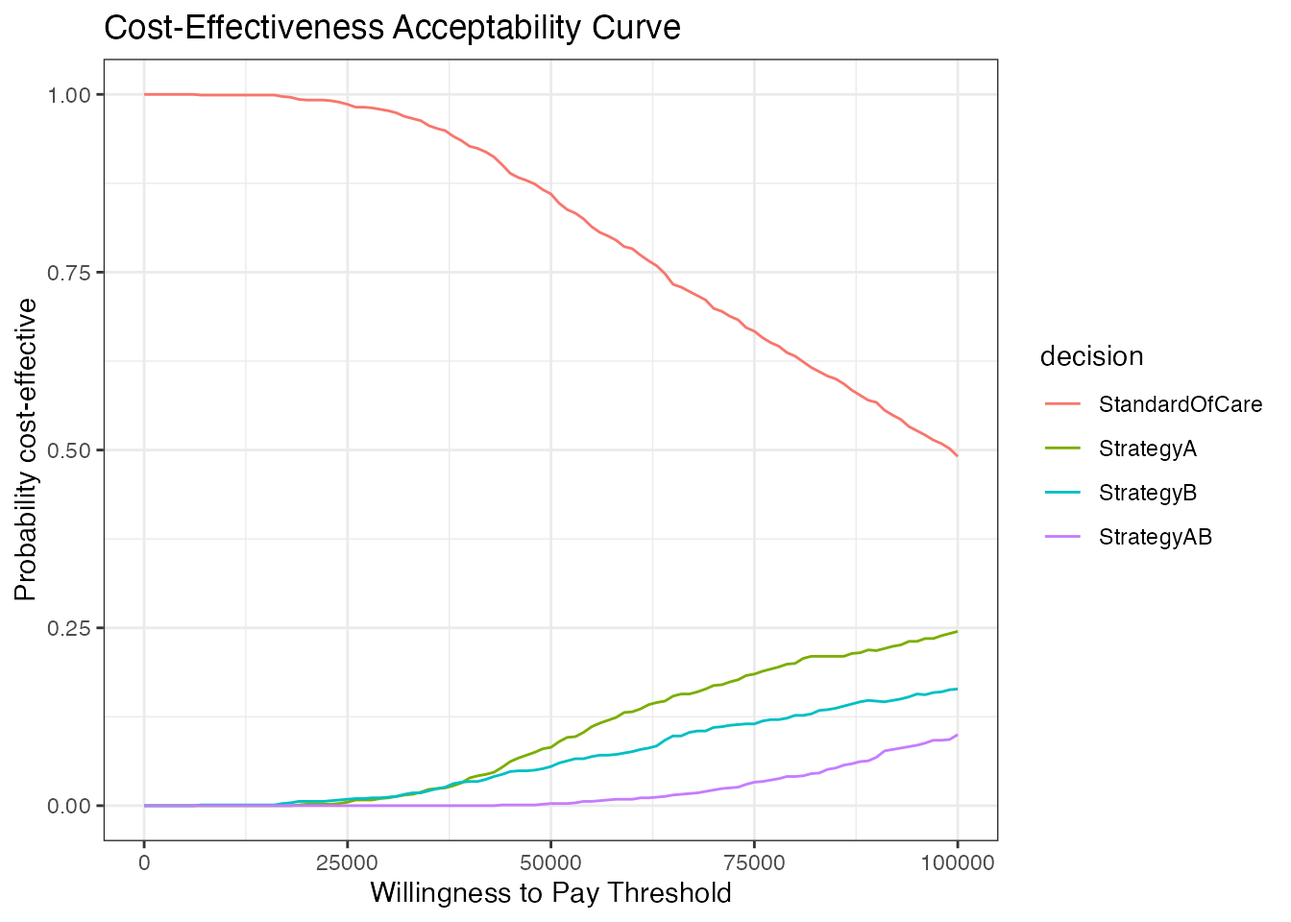
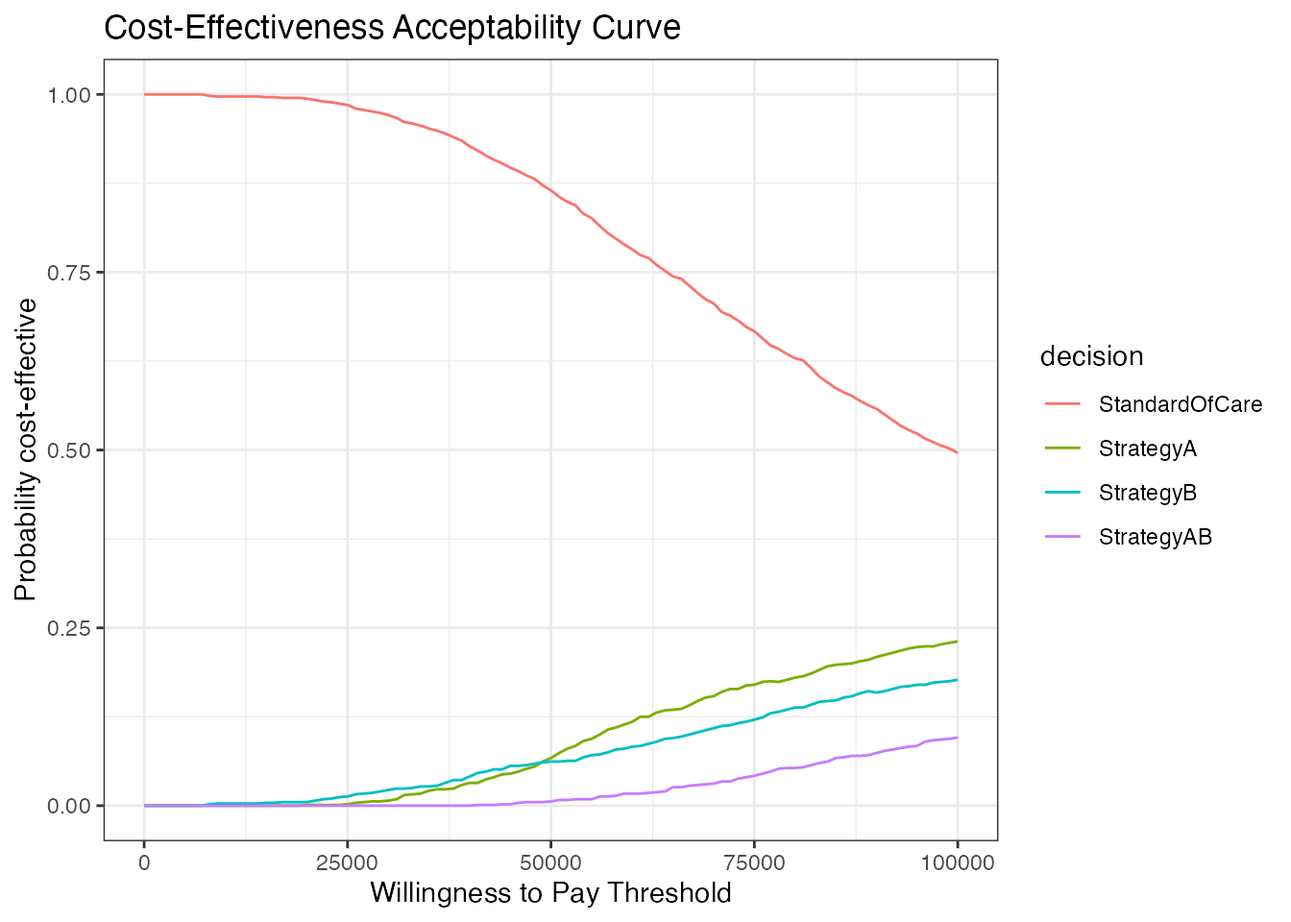
touching up the package

diff --git a/docs/reference/run_twig.html b/docs/reference/run_twig.html
@@ -125,58 +125,41 @@ In both situations, the total number of cycles will be the same as the input n_c
     <h2>Value</h2>
     
 
-<p>A list containing the results of the model run. The list includes the following elements:</p><ul><li><p>Rewards_summaryAn array containing the summary statistics of the rewards if params is a data.frame with more than 1 row.</p></li>
-<li><p>Rewards_simAn array containing the simulated rewards by simulation.</p></li>
-</ul><p>The following will be included if verbose is TRUE and the twig object is a Markov model:</p><ul><li><p>simThe simulation ID.</p></li>
-<li><p>Rewards_simA matrix of simulated rewards of size decision x rewards.</p></li>
-<li><p>Rewards_arrayAn array containing the rewards for each cycle, state, decision, and reward.</p></li>
-<li><p>Rewards_array_cycleAn array containing the rewards for each cycle, state, decision, and reward, adjusted for the cycle.</p></li>
-<li><p>Trace_arrayAn array containing the Markov trace for each cycle, state, and decision.</p></li>
-<li><p>TransitionProb_arrayAn array containing the transition probabilities for each state, destination state, cycle, and decision.</p></li>
-<li><p>PathsA data frame containing the path probabilities for each state, cycle, and decision.</p></li>
-<li><p>Event_optionsA data frame containing the event options for each state, cycle, and decision.</p></li>
-<li><p>Function_ValuesA data frame containing the evaluated function values for each state, cycle, decision, and event.</p></li>
-<li><p>evaluated_funsA list of evaluated functions. Each function returns a data frame enumerating the dependencies of the function along with the value returned by that function for each combination of values.</p></li>
-<li><p>path_eventsA data frame of the event options along each path. Rows = paths, columns = events.</p></li>
-</ul><p>The following will be included if verbose is TRUE and the twig object is a decision tree:</p><ul><li><p>simThe simulation ID.</p></li>
-<li><p>Rewards_simA matrix of simulated rewards of size decision x rewards.</p></li>
-<li><p>Path_rewardsAn array containing the path rewards of size decision x paths x rewards. Paths are indexed by their final outcomes in the twig and a key to event options is provided in path_events.</p></li>
-<li><p>Path_rewards_weightedAn array containing the path rewards weighted by the probability of each path. This is also of size decision x paths x rewards. Paths are indexed by their final outcomes in the twig and a key to event options is provided in path_events.</p></li>
-<li><p>PathsAn array containing the path probabilities of size decision x paths.</p></li>
-<li><p>OutcomesA matrix of final outcome probabilities. Final outcomes are the terminal event transitions of size decision x outcomes.</p></li>
-<li><p>Event_optionsA data frame containing the probability of event options by decision.</p></li>
-<li><p>path_eventsA data frame of the event options along each path. Rows = paths, columns = events.</p></li>
-<li><p>evaluated_funsA list of evaluated functions. Each function returns a data frame enumerating the dependencies of the function along with the value returned by that function for each combination of values.</p></li>
-<li><p>Prob_Function_ValuesA data frame of the probability function values evaluated by decision and events harmonized to the same combinations of decisions and events across all probability functions.</p></li>
+<p>A list containing the results of the model run. The list includes the following elements:</p><ul><li><p>Rewards_summary An array containing the summary statistics of the rewards if params is a data.frame with more than 1 row.</p></li>
+<li><p>Rewards_sim An array containing the simulated rewards by simulation.</p></li>
+</ul><p>The following will be included if verbose is TRUE and the twig object is a Markov model:</p><ul><li><p>sim The simulation ID.</p></li>
+<li><p>Rewards_sim A matrix of simulated rewards of size decision x rewards.</p></li>
+<li><p>Rewards_array An array containing the rewards for each cycle, state, decision, and reward.</p></li>
+<li><p>Rewards_array_cycle: An array containing the rewards for each cycle, state, decision, and reward, adjusted for the cycle.</p></li>
+<li><p>Trace_array: An array containing the Markov trace for each cycle, state, and decision.</p></li>
+<li><p>TransitionProb_array: An array containing the transition probabilities for each state, destination state, cycle, and decision.</p></li>
+<li><p>Paths: A data frame containing the path probabilities for each state, cycle, and decision.</p></li>
+<li><p>Event_options: A data frame containing the event options for each state, cycle, and decision.</p></li>
+<li><p>Function_Values: A data frame containing the evaluated function values for each state, cycle, decision, and event.</p></li>
+<li><p>evaluated_funs: A list of evaluated functions. Each function returns a data frame enumerating the dependencies of the function along with the value returned by that function for each combination of values.</p></li>
+<li><p>path_events: A data frame of the event options along each path. Rows = paths, columns = events.</p></li>
+</ul><p>The following will be included if verbose is TRUE and the twig object is a decision tree:</p><ul><li><p>sim: The simulation ID.</p></li>
+<li><p>Rewards_sim: A matrix of simulated rewards of size decision x rewards.</p></li>
+<li><p>path_events: A data frame of the event options along each path. Rows = paths, columns = events.</p></li>
+<li><p>Event_options: A data frame containing the probability of event options by decision.</p></li>
+<li><p>evaluated_funs: A list of evaluated functions. Each function returns a data frame enumerating the dependencies of the function along with the value returned by that function for each combination of values.</p></li>
+<li><p>Prob_Function_Values: A data frame of the probability function values evaluated by decision and events harmonized to the same combinations of decisions and events across all probability functions.</p></li>
+<li><p>Paths: An array containing the path probabilities of size decision x paths.</p></li>
+<li><p>Path_rewards: An array containing the path rewards of size decision x paths x rewards. Paths are indexed by their final outcomes in the twig and a key to event options is provided in path_events.</p></li>
+<li><p>Path_rewards_weighted: An array containing the path rewards weighted by the probability of each path. This is also of size decision x paths x rewards. Paths are indexed by their final outcomes in the twig and a key to event options is provided in path_events.</p></li>
+<li><p>Outcomes: A matrix of final outcome probabilities. Final outcomes are the terminal event transitions of size decision x outcomes.</p></li>
 </ul></div>
     <div id="see-also">
     <h2>See also</h2>
-    <div class="dont-index"><p><a href="../doc/markov_time_dep.html">Markov model vignette</a>, and
-<a href="../doc/decision_tree.html">Decision tree vignette</a></p></div>
+    <div class="dont-index"><p><a href="https://hjalal.github.io/twig/articles/markov_time_dep.html" class="external-link">Markov model vignette</a>, and
+<a href="https://hjalal.github.io/twig/articles/decision_tree.html" class="external-link">Decision tree vignette</a></p></div>
     </div>
 
     <div id="ref-examples">
     <h2>Examples</h2>
     <div class="sourceCode"><pre class="sourceCode r"><code><span class="r-in"><span><span class="kw">if</span> <span class="op">(</span><span class="cn">FALSE</span><span class="op">)</span> <span class="op">{</span></span></span>
-<span class="r-in"><span><span class="co"># Create a twig object</span></span></span>
-<span class="r-in"><span><span class="va">twig_obj</span> <span class="op">&lt;-</span> <span class="fu"><a href="twig.html">twig</a></span><span class="op">(</span><span class="op">)</span> <span class="op">+</span> </span></span>
-<span class="r-in"><span>  <span class="fu"><a href="decisions.html">decisions</a></span><span class="op">(</span><span class="st">"StandardOfCare"</span>, <span class="st">"StrategyA"</span><span class="op">)</span> <span class="op">+</span> </span></span>
-<span class="r-in"><span>  <span class="fu"><a href="states.html">states</a></span><span class="op">(</span>names <span class="op">=</span> <span class="fu"><a href="https://rdrr.io/r/base/c.html" class="external-link">c</a></span><span class="op">(</span><span class="st">"H"</span>, <span class="st">"S"</span>, <span class="st">"D"</span><span class="op">)</span>, init_probs <span class="op">=</span> <span class="fu"><a href="https://rdrr.io/r/base/c.html" class="external-link">c</a></span><span class="op">(</span><span class="fl">1</span>,<span class="fl">0</span>,<span class="fl">0</span><span class="op">)</span><span class="op">)</span> <span class="op">+</span> </span></span>
-<span class="r-in"><span>  <span class="fu"><a href="event.html">event</a></span><span class="op">(</span>name <span class="op">=</span> <span class="st">"only_event"</span>,  </span></span>
-<span class="r-in"><span>        options <span class="op">=</span> <span class="fu"><a href="https://rdrr.io/r/base/c.html" class="external-link">c</a></span><span class="op">(</span><span class="st">"get_sick"</span>, <span class="st">"die"</span>, <span class="st">"stay"</span><span class="op">)</span>, </span></span>
-<span class="r-in"><span>        probs <span class="op">=</span> <span class="fu"><a href="https://rdrr.io/r/base/c.html" class="external-link">c</a></span><span class="op">(</span><span class="fu">pGetSick</span><span class="op">(</span><span class="va">state</span><span class="op">)</span>, <span class="fu">pDie</span><span class="op">(</span><span class="va">decision</span>, <span class="va">state</span><span class="op">)</span>, <span class="cn">Inf</span><span class="op">)</span>, </span></span>
-<span class="r-in"><span>        transitions <span class="op">=</span> <span class="fu"><a href="https://rdrr.io/r/base/c.html" class="external-link">c</a></span><span class="op">(</span><span class="st">"S"</span>, <span class="st">"D"</span>, <span class="st">"stay"</span><span class="op">)</span><span class="op">)</span> <span class="op">+</span>  </span></span>
-<span class="r-in"><span>  <span class="fu"><a href="payoffs.html">payoffs</a></span><span class="op">(</span>cost <span class="op">=</span> <span class="fu">compute_cost</span><span class="op">(</span><span class="va">decision</span>, <span class="va">state</span><span class="op">)</span><span class="op">)</span></span></span>
-<span class="r-in"><span></span></span>
-<span class="r-in"><span><span class="co"># Define parameters</span></span></span>
-<span class="r-in"><span><span class="va">params</span> <span class="op">&lt;-</span> <span class="fu"><a href="https://rdrr.io/r/base/data.frame.html" class="external-link">data.frame</a></span><span class="op">(</span></span></span>
-<span class="r-in"><span>  pGetSick <span class="op">=</span> <span class="fl">0.1</span>,</span></span>
-<span class="r-in"><span>  pDie <span class="op">=</span> <span class="fl">0.05</span>,</span></span>
-<span class="r-in"><span>  compute_cost <span class="op">=</span> <span class="kw">function</span><span class="op">(</span><span class="va">decision</span>, <span class="va">state</span><span class="op">)</span> <span class="op">{</span> <span class="kw"><a href="https://rdrr.io/r/base/function.html" class="external-link">return</a></span><span class="op">(</span><span class="fl">100</span><span class="op">)</span> <span class="op">}</span></span></span>
-<span class="r-in"><span><span class="op">)</span></span></span>
-<span class="r-in"><span></span></span>
-<span class="r-in"><span><span class="co"># Run the twig model</span></span></span>
-<span class="r-in"><span><span class="va">results</span> <span class="op">&lt;-</span> <span class="fu">run_twig</span><span class="op">(</span><span class="va">twig_obj</span>, <span class="va">params</span>, n_cycles <span class="op">=</span> <span class="fl">10</span>, verbose <span class="op">=</span> <span class="cn">TRUE</span>, parallel <span class="op">=</span> <span class="cn">FALSE</span><span class="op">)</span></span></span>
+<span class="r-in"><span><span class="fu">run_twig</span><span class="op">(</span><span class="va">mytwig</span>, <span class="va">params</span>, n_cycles <span class="op">=</span> <span class="fl">10</span><span class="op">)</span></span></span>
+<span class="r-in"><span><span class="co"># see the vignettes for more examples</span></span></span>
 <span class="r-in"><span><span class="op">}</span></span></span>
 <span class="r-in"><span></span></span>
 </code></pre></div>

diff --git a/docs/articles/decision_tree.html b/docs/articles/decision_tree.html
@@ -134,9 +134,12 @@ outcomes.</p>
 <span>        transitions <span class="op">=</span> <span class="fu"><a href="https://rdrr.io/r/base/c.html" class="external-link">c</a></span><span class="op">(</span><span class="va">OVE_comp</span>, <span class="va">no_OVE_comp</span><span class="op">)</span><span class="op">)</span> <span class="op">+</span> </span>
 <span>  <span class="fu"><a href="../reference/payoffs.html">payoffs</a></span><span class="op">(</span>names <span class="op">=</span> <span class="fu"><a href="https://rdrr.io/r/base/c.html" class="external-link">c</a></span><span class="op">(</span><span class="va">cost</span>, <span class="va">utility</span><span class="op">)</span><span class="op">)</span> <span class="co"># finally measure the cost and utilities </span></span></code></pre></div>
 <p>In <a href="https://www.dashlab.ca/projects/decision_twig/" class="external-link">DecisionTwig</a>,
-this decision tree looks like this: <img src="../reference/figures/decision_tree_twig.png" width="700" alt="DecisionTree"> ## Model parameters Define a data frame for model
-parameters as a list of scalar values. This can also ve a dataset for
-running a probabilistic analysis.</p>
+this decision tree looks like this: <img src="../reference/figures/decision_tree_twig.png" width="700" alt="DecisionTree"></p>
+<div class="section level3">
+<h3 id="model-parameters">Model parameters<a class="anchor" aria-label="anchor" href="#model-parameters"></a>
+</h3>
+<p>Define a data frame for model parameters as a list of scalar values.
+This can also ve a dataset for running a probabilistic analysis.</p>
 <div class="sourceCode" id="cb3"><pre class="downlit sourceCode r">
 <code class="sourceCode R"><span><span class="va">params</span> <span class="op">&lt;-</span> <span class="fu"><a href="https://rdrr.io/r/base/list.html" class="external-link">list</a></span><span class="op">(</span></span>
 <span>  <span class="co"># Probabilities,</span></span>
@@ -159,6 +162,7 @@ running a probabilistic analysis.</p>
 <span>  q_loss_biopsy  <span class="op">=</span> <span class="fl">0.01</span>   ,<span class="co"># one-time QALY loss due to brain biopsy</span></span>
 <span>  q_death_biopsy <span class="op">=</span> <span class="fl">0</span>      <span class="co"># remaining QALYs for those who died during biopsy</span></span>
 <span><span class="op">)</span></span></code></pre></div>
+</div>
 <div class="section level3">
 <h3 id="functions">Functions<a class="anchor" aria-label="anchor" href="#functions"></a>
 </h3>
@@ -249,15 +253,15 @@ create a simple wrapper around the p_HVE variable.</p>
 <p>We can run the model and check the results of the single parameter
 set under <code>results$Rewards_sim</code></p>
 <div class="sourceCode" id="cb9"><pre class="downlit sourceCode r">
-<code class="sourceCode R"><span><span class="va">results</span> <span class="op">&lt;-</span> <span class="fu"><a href="../reference/run_twig.html">run_twig</a></span><span class="op">(</span>twig_obj <span class="op">=</span> <span class="va">mytwig</span>, params <span class="op">=</span> <span class="va">params</span>, parallel <span class="op">=</span> <span class="cn">FALSE</span><span class="op">)</span></span>
+<code class="sourceCode R"><span><span class="va">results</span> <span class="op">&lt;-</span> <span class="fu"><a href="../reference/run_twig.html">run_twig</a></span><span class="op">(</span>twig_obj <span class="op">=</span> <span class="va">mytwig</span>, params <span class="op">=</span> <span class="va">params</span>, parallel <span class="op">=</span> <span class="cn">FALSE</span>, progress_bar <span class="op">=</span> <span class="cn">FALSE</span><span class="op">)</span></span>
 <span><span class="co">#&gt; Checking Twig syntax ....</span></span>
 <span><span class="co">#&gt; A states layer was not detected. Event transitions include the following event names:  HVE_event, get_HVE_comp, get_OVE_comp . These are valid. </span></span>
 <span><span class="co">#&gt; The following transitions are not event names and will be treated as final outcomes:  Death, HVE_comp, no_HVE_comp, OVE_comp, no_OVE_comp .</span></span>
 <span><span class="co">#&gt; Twig syntax validation completed successfully.</span></span>
 <span><span class="co">#&gt; Preprocessing started ...</span></span>
 <span><span class="co">#&gt; Preprocessing completed. Starting simulation...</span></span>
-<span><span class="co">#&gt;   |                                                                                                                                                                                                      |                                                                                                                                                                                              |   0%  |                                                                                                                                                                                                      |==============================================================================================================================================================================================| 100%</span></span>
-<span><span class="co">#&gt; Total time: 0.00081 secs</span></span>
+<span><span class="co">#&gt; </span></span>
+<span><span class="co">#&gt; Total time: 0.00072 secs</span></span>
 <span></span>
 <span><span class="va">results</span><span class="op">$</span><span class="va">Rewards_sim</span></span>
 <span><span class="co">#&gt; , , sim = 1</span></span>

diff --git a/docs/reference/calculate_icers.html b/docs/reference/calculate_icers.html
@@ -89,27 +89,21 @@
     <h2>Value</h2>
     
 
-<p>A data frame with the following columns:</p><ul><li><p>StrategyThe name of the strategy.</p></li>
-<li><p>CostThe cost of the strategy.</p></li>
-<li><p>EffectThe effect (utility) of the strategy.</p></li>
-<li><p>Inc_CostThe incremental cost compared to the next less effective strategy.</p></li>
-<li><p>Inc_EffectThe incremental effect compared to the next less effective strategy.</p></li>
-<li><p>ICERThe Incremental Cost-Effectiveness Ratio.</p></li>
-<li><p>StatusThe dominance status of the strategy (ND = non-dominated, D = dominated, ED = extendedly dominated).</p></li>
+<p>A data frame with the following columns:</p><ul><li><p>Strategy: The name of the strategy.</p></li>
+<li><p>Cost: The cost of the strategy.</p></li>
+<li><p>Effect: The effect (utility) of the strategy.</p></li>
+<li><p>Inc_Cost: The incremental cost compared to the next less effective strategy.</p></li>
+<li><p>Inc_Effect: The incremental effect compared to the next less effective strategy.</p></li>
+<li><p>ICER: The Incremental Cost-Effectiveness Ratio.</p></li>
+<li><p>Status: The dominance status of the strategy (ND = non-dominated, D = dominated, ED = extendedly dominated).</p></li>
 </ul></div>
 
     <div id="ref-examples">
     <h2>Examples</h2>
-    <div class="sourceCode"><pre class="sourceCode r"><code><span class="r-in"><span><span class="co"># Example rewards summary matrix</span></span></span>
-<span class="r-in"><span><span class="va">rewards_summary</span> <span class="op">&lt;-</span> <span class="fu"><a href="https://rdrr.io/r/base/matrix.html" class="external-link">matrix</a></span><span class="op">(</span></span></span>
-<span class="r-in"><span>  <span class="fu"><a href="https://rdrr.io/r/base/c.html" class="external-link">c</a></span><span class="op">(</span><span class="fl">1000</span>, <span class="fl">2000</span>, <span class="fl">1500</span>, <span class="fl">0.8</span>, <span class="fl">0.85</span>, <span class="fl">0.82</span><span class="op">)</span>,</span></span>
-<span class="r-in"><span>  nrow <span class="op">=</span> <span class="fl">3</span>,</span></span>
-<span class="r-in"><span>  dimnames <span class="op">=</span> <span class="fu"><a href="https://rdrr.io/r/base/list.html" class="external-link">list</a></span><span class="op">(</span><span class="fu"><a href="https://rdrr.io/r/base/c.html" class="external-link">c</a></span><span class="op">(</span><span class="st">"StrategyA"</span>, <span class="st">"StrategyB"</span>, <span class="st">"StrategyC"</span><span class="op">)</span>, <span class="fu"><a href="https://rdrr.io/r/base/c.html" class="external-link">c</a></span><span class="op">(</span><span class="st">"cost"</span>, <span class="st">"utility"</span><span class="op">)</span><span class="op">)</span></span></span>
-<span class="r-in"><span><span class="op">)</span></span></span>
-<span class="r-in"><span></span></span>
-<span class="r-in"><span><span class="co"># Calculate ICERs</span></span></span>
-<span class="r-in"><span><span class="va">icer_results</span> <span class="op">&lt;-</span> <span class="fu">calculate_icers</span><span class="op">(</span><span class="va">rewards_summary</span><span class="op">)</span></span></span>
-<span class="r-in"><span></span></span>
+    <div class="sourceCode"><pre class="sourceCode r"><code><span class="r-in"><span><span class="kw">if</span> <span class="op">(</span><span class="cn">FALSE</span><span class="op">)</span> <span class="op">{</span></span></span>
+<span class="r-in"><span><span class="fu">calculate_icers</span><span class="op">(</span><span class="va">rewards_summary</span><span class="op">)</span></span></span>
+<span class="r-in"><span><span class="co"># see the vignettes for more examples</span></span></span>
+<span class="r-in"><span><span class="op">}</span></span></span>
 </code></pre></div>
     </div>
   </div>

diff --git a/docs/articles/markov_time_dep.html b/docs/articles/markov_time_dep.html
@@ -313,15 +313,15 @@ individual simulation results under <code>results$Rewards_sim</code></p>
 <span><span class="co">#&gt; Preprocessing started...</span></span>
 <span><span class="co">#&gt; Preprocessing completed. Starting simulation...</span></span>
 <span><span class="co">#&gt; </span></span>
-<span><span class="co">#&gt; Total time: 4.3 secs</span></span>
+<span><span class="co">#&gt; Total time: 4.1 secs</span></span>
 <span></span>
 <span><span class="va">results</span><span class="op">$</span><span class="va">Rewards_summary</span></span>
 <span><span class="co">#&gt;                 reward</span></span>
-<span><span class="co">#&gt; decision             cost  utility</span></span>
-<span><span class="co">#&gt;   StandardOfCare  79619.6 13.95555</span></span>
-<span><span class="co">#&gt;   StrategyA      152113.2 14.45355</span></span>
-<span><span class="co">#&gt;   StrategyB      141452.0 14.33709</span></span>
-<span><span class="co">#&gt;   StrategyAB     208137.0 14.89564</span></span></code></pre></div>
+<span><span class="co">#&gt; decision              cost  utility</span></span>
+<span><span class="co">#&gt;   StandardOfCare  80301.63 14.00020</span></span>
+<span><span class="co">#&gt;   StrategyA      151695.02 14.45703</span></span>
+<span><span class="co">#&gt;   StrategyB      140507.55 14.39459</span></span>
+<span><span class="co">#&gt;   StrategyAB     205921.82 14.91030</span></span></code></pre></div>
 <p>You can run the same command with parallelization, by setting
 <code>parallel = TRUE</code>. This will speed up the simulation by
 running each simulation in parallel. [It is commented out here because
@@ -337,11 +337,11 @@ dampack package, we can retrieve ICER table by passing the rewards
 summary table.</p>
 <div class="sourceCode" id="cb12"><pre class="downlit sourceCode r">
 <code class="sourceCode R"><span><span class="fu"><a href="../reference/calculate_icers.html">calculate_icers</a></span><span class="op">(</span><span class="va">results</span><span class="op">$</span><span class="va">Rewards_summary</span><span class="op">)</span></span>
-<span><span class="co">#&gt;                      decision     cost  utility inc_cost inc_utility     ICER status</span></span>
-<span><span class="co">#&gt; StandardOfCare StandardOfCare  79619.6 13.95555       NA          NA       NA     ND</span></span>
-<span><span class="co">#&gt; StrategyB           StrategyB 141452.0 14.33709       NA          NA       NA     ED</span></span>
-<span><span class="co">#&gt; StrategyA           StrategyA 152113.2 14.45355       NA          NA       NA     ED</span></span>
-<span><span class="co">#&gt; StrategyAB         StrategyAB 208137.0 14.89564 128517.4   0.9400897 136707.6     ND</span></span></code></pre></div>
+<span><span class="co">#&gt;                      decision      cost  utility inc_cost inc_utility     ICER status</span></span>
+<span><span class="co">#&gt; StandardOfCare StandardOfCare  80301.63 14.00020       NA          NA       NA     ND</span></span>
+<span><span class="co">#&gt; StrategyB           StrategyB 140507.55 14.39459       NA          NA       NA     ED</span></span>
+<span><span class="co">#&gt; StrategyA           StrategyA 151695.02 14.45703       NA          NA       NA     ED</span></span>
+<span><span class="co">#&gt; StrategyAB         StrategyAB 205921.82 14.91030 125620.2   0.9100981 138029.3     ND</span></span></code></pre></div>
 </div>
 <div class="section level3">
 <h3 id="cost-effectiveness-acceptibility-curve-ceac">Cost-Effectiveness Acceptibility Curve (CEAC)<a class="anchor" aria-label="anchor" href="#cost-effectiveness-acceptibility-curve-ceac"></a>

diff --git a/docs/index.html b/docs/index.html
@@ -12,7 +12,7 @@
 <link rel="stylesheet" href="https://cdnjs.cloudflare.com/ajax/libs/font-awesome/5.12.1/css/v4-shims.min.css" integrity="sha256-wZjR52fzng1pJHwx4aV2AO3yyTOXrcDW7jBpJtTwVxw=" crossorigin="anonymous">
 <!-- clipboard.js --><script src="https://cdnjs.cloudflare.com/ajax/libs/clipboard.js/2.0.6/clipboard.min.js" integrity="sha256-inc5kl9MA1hkeYUt+EC3BhlIgyp/2jDIyBLS6k3UxPI=" crossorigin="anonymous"></script><!-- headroom.js --><script src="https://cdnjs.cloudflare.com/ajax/libs/headroom/0.11.0/headroom.min.js" integrity="sha256-AsUX4SJE1+yuDu5+mAVzJbuYNPHj/WroHuZ8Ir/CkE0=" crossorigin="anonymous"></script><script src="https://cdnjs.cloudflare.com/ajax/libs/headroom/0.11.0/jQuery.headroom.min.js" integrity="sha256-ZX/yNShbjqsohH1k95liqY9Gd8uOiE1S4vZc+9KQ1K4=" crossorigin="anonymous"></script><!-- pkgdown --><link href="pkgdown.css" rel="stylesheet">
 <script src="pkgdown.js"></script><meta property="og:title" content="Home">
-<meta property="og:description" content="for streamling elegant and trasparent decision and economic evaluation models using Grammer of Modeling. ">
+<meta property="og:description" content="Twig simplifies and streamlines the process of building transparent decision and economic evaluation models using Grammar of Modeling. ">
 <!-- mathjax --><script src="https://cdnjs.cloudflare.com/ajax/libs/mathjax/2.7.5/MathJax.js" integrity="sha256-nvJJv9wWKEm88qvoQl9ekL2J+k/RWIsaSScxxlsrv8k=" crossorigin="anonymous"></script><script src="https://cdnjs.cloudflare.com/ajax/libs/mathjax/2.7.5/config/TeX-AMS-MML_HTMLorMML.js" integrity="sha256-84DKXVJXs0/F8OTMzX4UR909+jtl4G7SPypPavF+GfA=" crossorigin="anonymous"></script><!--[if lt IE 9]>
 <script src="https://oss.maxcdn.com/html5shiv/3.7.3/html5shiv.min.js"></script>
 <script src="https://oss.maxcdn.com/respond/1.4.2/respond.min.js"></script>

diff --git a/docs/authors.html b/docs/authors.html
@@ -81,11 +81,11 @@
 
 
     <p>Jalal H (2025).
-<em>twig: for streamlining decision and economic evaluation models using Grammar of Modeling</em>.
+<em>twig: For Streamlining Decision and Economic Evaluation Models using Grammar of Modeling</em>.
 R package version 1.0.0.0. 
 </p>
     <pre>@Manual{,
-  title = {twig: for streamlining decision and economic evaluation models using Grammar of Modeling},
+  title = {twig: For Streamlining Decision and Economic Evaluation Models using Grammar of Modeling},
   author = {Hawre Jalal},
   year = {2025},
   note = {R package version 1.0.0.0},

diff --git a/docs/reference/twig.html b/docs/reference/twig.html
@@ -85,6 +85,7 @@
     <div id="ref-examples">
     <h2>Examples</h2>
     <div class="sourceCode"><pre class="sourceCode r"><code><span class="r-in"><span><span class="va">twig_obj</span> <span class="op">&lt;-</span> <span class="fu">twig</span><span class="op">(</span><span class="op">)</span></span></span>
+<span class="r-in"><span><span class="co"># see vignettes for more</span></span></span>
 </code></pre></div>
     </div>
   </div>

diff --git a/inst/extra.css b/inst/extra.css
@@ -1,0 +1,14 @@
+pre {
+  white-space: pre;
+  word-wrap: normal;
+  overflow-x: auto;
+}
+
+code {
+  white-space: pre;
+}
+
+/* Adjust the main content width */
+.container {
+    max-width: 1200px; /* Increase width to fit more content */
+}
